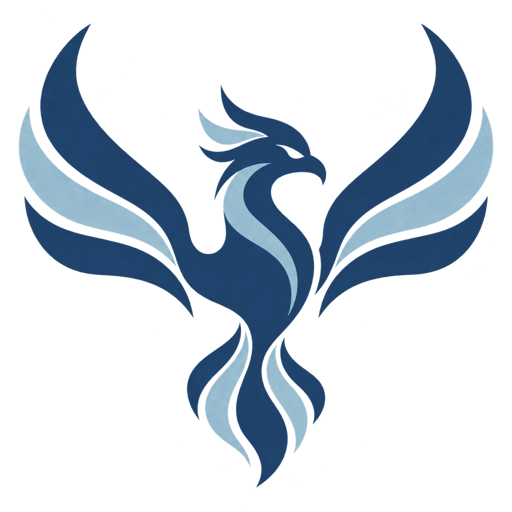
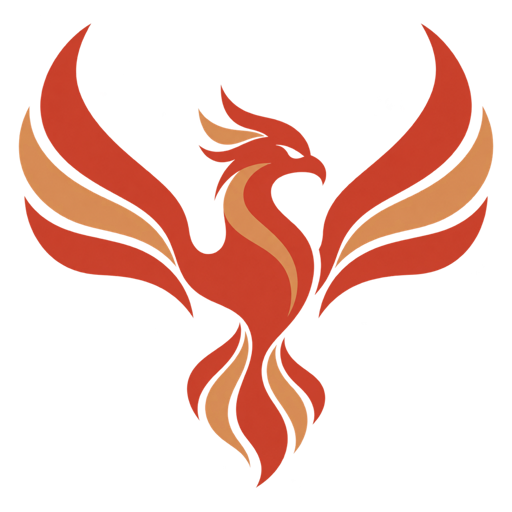
Theme: polish after graphite switch
- Phoenix logo keeps its red brand colour everywhere via --brand-mark
  (logo-only token); dark-mode raster lifts the red to #da614e for 3.6:1
  on the dark sidebar glass.
- Shell backdrop bottom-left stop moves from peach/brick to cool slate.
- --chart-8 sky -> olive so every series pair is >0.08 OKLab apart.
- Contrast test covers the mark token and the raster body colour.

Changed region(s): [[0.0312, 0.0312, 0.9688, 0.9688], [0.4062, 0.1562, 0.4375, 0.1875]]

diff --git a/frontend/src/styles/theme-contrast.test.ts b/frontend/src/styles/theme-contrast.test.ts
@@ -105,14 +105,72 @@ describe.each(['light', 'dark'] as const)('theme contrast (%s)', mode => {
   it('never puts two look-alike series next to each other', () => {
     apply()
     const series = Array.from({ length: 9 }, (_, index) => token(`--chart-${index + 1}`))
-    for (let index = 1; index < series.length; index += 1) {
-      expect(distance(series[index - 1], series[index]), `--chart-${index} vs --chart-${index + 1}`).toBeGreaterThan(0.08)
-    }
-    // Non-adjacent slots may be closer (sky and steel blue), but never the same.
+    // Every pair, not only neighbours: a nine-series chart shows all of them.
     for (let a = 0; a < series.length; a += 1) {
       for (let b = a + 1; b < series.length; b += 1) {
-        expect(distance(series[a], series[b]), `--chart-${a + 1} vs --chart-${b + 1}`).toBeGreaterThan(0.06)
+        expect(distance(series[a], series[b]), `--chart-${a + 1} vs --chart-${b + 1}`).toBeGreaterThan(0.08)
       }
     }
   })
+
+  it('keeps the red phoenix mark at 3:1 on the brightest point of its sidebar', async () => {
+    apply()
+    const glass = sidebarGlass()
+    expect(ratio(token('--brand-mark'), glass)).toBeGreaterThanOrEqual(3)
+    expect(ratio(token('--brand-mark'), token('--background'))).toBeGreaterThanOrEqual(3)
+    // The raster itself, not only the token: its body red matches --brand-mark
+    // and clears 3:1 against the same glass.
+    const body = await markBody(mode === 'dark' ? '/images/nova-mark-128-dark.png' : '/images/nova-mark-128.png')
+    expect(distance(body, token('--brand-mark')), `mark body ${body}`).toBeLessThan(0.03)
+    expect(ratio(body, glass), `mark body ${body} on ${glass}`).toBeGreaterThanOrEqual(3)
+  })
+
+  it('keeps the mark red apart from the UI accents', () => {
+    apply()
+    expect(distance(token('--brand-mark'), token('--primary'))).toBeGreaterThan(0.2)
+    expect(distance(token('--brand-mark'), token('--brand'))).toBeGreaterThan(0.2)
+  })
 })
+
+/**
+ * The navigation glass where the logo sits: the sidebar tint composited over
+ * the backdrop's first (top-left) stop, which is its brightest point in dark
+ * and its most saturated in light.
+ */
+function sidebarGlass(): string {
+  const stop = token('--shell-backdrop').match(/#[0-9a-f]{6}/i)![0]
+  const tint = token('--sidebar-navigation-tint')
+  const canvas = document.createElement('canvas')
+  canvas.width = canvas.height = 1
+  const context = canvas.getContext('2d')!
+  context.fillStyle = stop
+  context.fillRect(0, 0, 1, 1)
+  context.fillStyle = tint
+  context.fillRect(0, 0, 1, 1)
+  const [r, g, b] = context.getImageData(0, 0, 1, 1).data
+  return `rgb(${r}, ${g}, ${b})`
+}
+
+/** The most common saturated colour among the mark's opaque pixels. */
+async function markBody(src: string): Promise<string> {
+  const image = new Image()
+  image.src = src
+  await image.decode()
+  const canvas = document.createElement('canvas')
+  canvas.width = image.naturalWidth
+  canvas.height = image.naturalHeight
+  const context = canvas.getContext('2d', { willReadFrequently: true })!
+  context.drawImage(image, 0, 0)
+  const data = context.getImageData(0, 0, canvas.width, canvas.height).data
+  const counts = new Map<string, number>()
+  for (let index = 0; index < data.length; index += 4) {
+    if (data[index + 3] < 250) continue
+    const [r, g, b] = [data[index], data[index + 1], data[index + 2]]
+    if (r - Math.min(g, b) < 80) continue
+    // Quantise to 8 levels per channel so anti-aliasing does not split the vote.
+    const key = [r, g, b].map(v => Math.round(v / 8) * 8).join(',')
+    counts.set(key, (counts.get(key) ?? 0) + 1)
+  }
+  const [key] = [...counts.entries()].sort((a, b) => b[1] - a[1])[0]
+  return `rgb(${key})`
+}

diff --git a/frontend/src/styles/theme.css b/frontend/src/styles/theme.css
@@ -24,6 +24,11 @@
      --brand fill is 5.2:1. */
   --brand: #2f6fb0;
   --brand-foreground: #ffffff;
+  /* The phoenix mark: the only red in the interface (owner decision
+     2026-11-24). Raster colours, not a UI accent; the Logo PNGs are exported
+     from these values and theme-contrast.test.ts checks them. */
+  --brand-mark: #c93f2a;
+  --brand-mark-accent: #d78c55;
   --secondary: oklch(0.968 0.007 247.896);
   --secondary-foreground: var(--foreground);
   --muted: oklch(0.968 0.007 247.896);
@@ -68,8 +73,9 @@
   --surface-border: oklch(0.929 0.013 255.508);
 
   /* Categorical series in drawing order: steel blue first, then hues that
-     never sit next to a look-alike (coral comes fifth, sky eighth, far from
-     blue). Every slot keeps 3:1 against --card; theme-contrast.test.ts
+     never sit next to a look-alike (coral fifth, olive eighth). Every pair
+     differs by at least 0.08 in OKLab, so even a nine-series chart has no
+     near-twins. Every slot keeps 3:1 against --card; theme-contrast.test.ts
      enforces it. */
   --chart-1: #2f6fb0;
   --chart-2: #12897d;
@@ -78,7 +84,7 @@
   --chart-5: #d4503f;
   --chart-6: #c03f84;
   --chart-7: #4f8a2b;
-  --chart-8: #1a86b4;
+  --chart-8: #6e6a1c;
   --chart-9: #a0612f;
 
   /* Tool kinds under an answer: icon tiles, chip accents and detail rules.
@@ -142,7 +148,7 @@
   --shell-backdrop:
     radial-gradient(90% 70% at 0% 0%, #8fb4c4 0%, rgb(143 180 196 / 0%) 70%),
     radial-gradient(80% 70% at 100% 100%, #ecd3a0 0%, rgb(236 211 160 / 0%) 70%),
-    radial-gradient(60% 60% at 0% 100%, #f0c4ae 0%, rgb(240 196 174 / 0%) 70%),
+    radial-gradient(60% 60% at 0% 100%, #c8cfe0 0%, rgb(200 207 224 / 0%) 70%),
     linear-gradient(160deg, #cfdbe4 0%, #e9edf1 100%);
   /* The light pane stays fully opaque: --primary and the -strong status tokens
      are measured as text on --background with no margin for a tint (B4). */
@@ -185,7 +191,7 @@
   --shell-backdrop:
     radial-gradient(90% 70% at 0% 0%, #2c5360 0%, rgb(44 83 96 / 0%) 70%),
     radial-gradient(80% 70% at 100% 100%, #6a5330 0%, rgb(106 83 48 / 0%) 70%),
-    radial-gradient(60% 60% at 0% 100%, #5c3a2b 0%, rgb(92 58 43 / 0%) 70%),
+    radial-gradient(60% 60% at 0% 100%, #2a3346 0%, rgb(42 51 70 / 0%) 70%),
     linear-gradient(160deg, #1a2733 0%, #0d1217 100%);
   /* Both tints are --background (#0b0f14) so chrome and pane differ only in
      how much backdrop they let through. */
@@ -231,6 +237,9 @@
   --primary-foreground: #0b0f14;
   --brand: #6aa5e0;
   --brand-foreground: #0b0f14;
+  /* Lifted so the mark keeps 3:1 on the dark navigation glass. */
+  --brand-mark: #da614e;
+  --brand-mark-accent: #e1a980;
   --secondary: #171d26;
   --secondary-foreground: #f7f8fa;
   --muted: #171d26;
@@ -272,7 +281,7 @@
   --chart-5: #f36b5b;
   --chart-6: #e36a9a;
   --chart-7: #7cc35a;
-  --chart-8: #38bdf8;
+  --chart-8: #d2c49a;
   --chart-9: #d0915a;
 
   --tool-mcp: #b4a0fb;

diff --git a/frontend/src/assets/logo.tsx b/frontend/src/assets/logo.tsx
@@ -1,22 +1,43 @@
 import { type ComponentProps } from "react";
 import { cn } from "@/lib/utils";
 
+const LIGHT =
+  "/images/nova-mark-64.png 64w, /images/nova-mark-128.png 128w, /images/nova-mark-256.png 256w, /images/nova-mark-512.png 512w, /images/nova-phoenix-master.png 1024w";
+const DARK =
+  "/images/nova-mark-64-dark.png 64w, /images/nova-mark-128-dark.png 128w, /images/nova-mark-256-dark.png 256w, /images/nova-mark-512-dark.png 512w, /images/nova-phoenix-master-dark.png 1024w";
+
+/**
+ * The red Nova phoenix (--brand-mark). Dark mode swaps in the same composition
+ * with the red lifted to --brand-mark's dark value, so the mark keeps 3:1
+ * against the dark navigation glass. The swap follows the `.dark` class.
+ */
 export function Logo({
   className,
   alt = "",
   ...props
 }: Omit<ComponentProps<"img">, "src" | "srcSet">) {
+  const shared = {
+    sizes: "24px",
+    width: 128,
+    height: 128,
+    alt,
+    "aria-hidden": alt === "" ? true : undefined,
+    ...props,
+  };
   return (
-    <img
-      src="/images/nova-mark-128.png"
-      srcSet="/images/nova-mark-64.png 64w, /images/nova-mark-128.png 128w, /images/nova-mark-256.png 256w, /images/nova-mark-512.png 512w, /images/nova-phoenix-master.png 1024w"
-      sizes="24px"
-      width={128}
-      height={128}
-      alt={alt}
-      aria-hidden={alt === "" ? true : undefined}
-      className={cn("size-6 object-contain", className)}
-      {...props}
-    />
+    <>
+      <img
+        src="/images/nova-mark-128.png"
+        srcSet={LIGHT}
+        className={cn("size-6 object-contain", className, "dark:hidden")}
+        {...shared}
+      />
+      <img
+        src="/images/nova-mark-128-dark.png"
+        srcSet={DARK}
+        className={cn("size-6 object-contain", className, "hidden dark:block")}
+        {...shared}
+      />
+    </>
   );
 }

diff --git a/frontend/src/styles/index.css b/frontend/src/styles/index.css
@@ -555,7 +555,7 @@ input:-webkit-autofill:active {
 
 /* Studio greeting ink: the sky of the client's hour, drawn from the chart
    palette. Sunrise warms from amber into coral and rose, daylight is a clear
-   steel-blue sky into teal, dusk goes rose to violet to blue. Light theme deepens each stop so
+   steel-blue sky into teal and green, dusk goes rose to violet to blue. Light theme deepens each stop so
    the text keeps 3:1 against the page. */
 .nova-greeting-ink {
   --g1: var(--chart-3);
@@ -581,8 +581,8 @@ input:-webkit-autofill:active {
 
 .nova-greeting-ink[data-daypart="afternoon"] {
   --g1: var(--chart-1);
-  --g2: var(--chart-8);
-  --g3: var(--chart-2);
+  --g2: var(--chart-2);
+  --g3: var(--chart-7);
 }
 
 .nova-greeting-ink[data-daypart="evening"] {

diff --git a/frontend/src/features/workspaces/chart-visualization.tsx b/frontend/src/features/workspaces/chart-visualization.tsx
@@ -46,7 +46,7 @@ function readSeriesPalette() {
     readToken("--chart-5", "#d4503f"),
     readToken("--chart-6", "#c03f84"),
     readToken("--chart-7", "#4f8a2b"),
-    readToken("--chart-8", "#1a86b4"),
+    readToken("--chart-8", "#6e6a1c"),
     readToken("--chart-9", "#a0612f"),
   ];
 }

diff --git a/frontend/public/images/BRAND.md b/frontend/public/images/BRAND.md
@@ -1,16 +1,16 @@
 # Nova phoenix assets
 
-Nova uses one steel-blue phoenix across Console, Studio, sign-in,
-assistant, browser icons, and the root README. The application palette and
-typography remain defined by [DESIGN.md](../../../DESIGN.md).
+Nova uses one brick-red and copper phoenix across Console, Studio, sign-in,
+assistant, browser icons, and the root README. The mark is the only red in the
+interface: its colour is the `--brand-mark` token (`--brand-mark-accent` for the
+copper), separate from the graphite `--primary` and the steel-blue `--brand`
+that the rest of the UI uses (owner decision, 2026-11-24). The application
+palette and typography remain defined by [DESIGN.md](../../../DESIGN.md).
 
 ## Source and exports
 
 The master was generated with the built-in imagegen tool and normalized to a
-1024 × 1024 transparent PNG. On 2026-11-24 the owner replaced the orange palette
-with graphite and steel blue; the master was recoloured once by mapping each
-pixel's luminance onto a deep-steel → `--brand` (#2f6fb0) → light-steel ramp,
-keeping its composition and alpha. That ramp is the only sanctioned recolour. All exports use that same composition and alpha;
+1024 × 1024 transparent PNG. All exports use that same composition and alpha;
 none are independently generated or redrawn.
 
 | File | Size | Use |
@@ -20,22 +20,30 @@ none are independently generated or redrawn.
 | `favicon-{16,32,48}.png` | Corresponding square size | Browser tabs |
 | `favicon.ico` | 16, 32, 48 | Browser fallback, PNG entries |
 | `apple-touch-icon.png` | 180 × 180 | Touch icon |
+| `nova-phoenix-master-dark.png`, `nova-mark-{64,128,256,512}-dark.png` | Same sizes | Dark theme, swapped in by `Logo` on `.dark` |
+
+**Dark variant.** On the dark navigation glass the body red (`#c93f2a`) reaches
+only 2.6:1. The dark master is the same file with the HLS lightness of every
+saturated pixel raised by 0.105, which lifts the body to `#da614e` (the dark
+`--brand-mark`, 3.6:1 on the brightest point of the dark sidebar) and the copper
+to `#e1a980`. Composition and alpha are unchanged. `theme-contrast.test.ts`
+measures both rasters against their sidebars.
 
 Use the shared `Logo` component in application code. Set `sizes` to match its
 display size, preserve the square aspect ratio, and keep the existing clear
 margin. Use empty alternative text beside an existing brand label; use a
 descriptive alternative when the emblem stands alone. Do not recolor, stretch,
-crop, add glow, or create a separate phoenix for another screen. Both themes
-use the same image. Touch platforms may supply their own background for alpha.
+crop, add glow, or create a separate phoenix for another screen. The dark
+variant above is the only alternate rendering. Touch platforms may supply their
+own background for alpha.
 
 To reproduce exports on macOS, use `sips -z SIZE SIZE
 nova-phoenix-master.png --out OUTPUT.png`. Regenerate ICO entries from the
-16/32/48 PNGs. Retain the master as the source for future exports.
+16/32/48 PNGs. Retain the master as the source for future exports; regenerate
+the dark master from it with the lightness lift above, then export its sizes
+the same way.
 
 ## Generation prompt
-
-Historical: the original master was generated in brick red and copper with this
-prompt, then recoloured to steel blue as described above.
 
 ```text
 Use case: logo-brand. Asset type: single master brand emblem for Nova analytics software, used unchanged from 16px favicon to large login emblem. Generate one luxurious phoenix mark, no text. Truly transparent background. Square canvas, centered emblem with 10% clear padding. Distinct phoenix bird head in slight profile, raised sweeping wings balanced on both sides, compact strong body, short elegant flame tail. Sculptural clean broad shapes, only three broad feather shapes per wing, generous negative spaces, bold readable silhouette at tiny sizes. Restrained premium flat graphic design with brick red #D04738 dominant and warm copper #D99765 secondary accent. Crisp edges, no thin lines. Subtle copper accent planes, not realistic metal. No surrounding frame, no badge, no circle, no shadows, no glow, no particles, no gradients, no mockup, no watermark, no typography. Original dignified enterprise brand, refined proportions.

diff --git a/DESIGN.md b/DESIGN.md
@@ -40,6 +40,7 @@ mendefinisikan warna.
 | `--primary`, `--primary-foreground` | Aksi utama, graphite netral | Tombol primer, fill aksi, tooltip, gelembung pesan |
 | `--brand`, `--brand-foreground` | Aksen interaktif biru-baja, satu keluarga dengan backdrop `#8fb4c4` | Tautan, focus ring (`--ring`), tab/toggle aktif, checkbox/switch tercentang, seleksi, rute peta, `--viz-highlight` |
 | `--editor-selection` | Seleksi teks di editor SQL | Monaco `editor.selectionBackground` |
+| `--brand-mark`, `--brand-mark-accent` | Merah bata dan tembaga phoenix; satu-satunya merah di antarmuka | Hanya logo (`Logo`, favicon). Bukan warna UI, bukan `--primary` |
 
 ### 2.2 Warna status
 
@@ -103,7 +104,7 @@ memakai `backdrop-filter`; material bukan tingkat `--surface-4`.
 
 | Token | Arti |
 |---|---|
-| `--shell-backdrop` | Lukisan latar shell: teal-slate di kiri atas, bata dan amber di bawah |
+| `--shell-backdrop` | Lukisan latar shell: teal-slate di kiri atas, slate-biru di kiri bawah, amber di kanan bawah |
 | `--shell-pane-tint` | Tint workspace di atas backdrop; 100% di tema terang, 82% di tema gelap |
 | `--sidebar-navigation-tint` | Tint chrome di atas backdrop atau konten di belakang drawer |
 | `--sidebar-navigation-tint-opacity` | Alpha tint chrome; 45% terang, 46% gelap |
@@ -119,7 +120,7 @@ memakai `backdrop-filter`; material bukan tingkat `--surface-4`.
 
 **Backdrop harus punya variasi hue.** Kaca hanya terbaca kalau ada sesuatu di
 belakangnya. Gradien abu-abu netral di bawah tint terlihat sama dengan warna
-solid, jadi backdrop memakai teal-slate dan bata/amber dari palet Nova sendiri.
+solid, jadi backdrop memakai teal-slate, slate-biru dan amber dari palet Nova sendiri.
 Blur tidak menggantikan variasi itu.
 
 **Plate dan hairline transparan, bukan hex opak.** Hover, selected, dan edge
@@ -211,9 +212,9 @@ warna UI, dan `--success` diambil dari `--chart-2` supaya bahasa status dan
 bahasa grafik tidak bercabang.
 
 - `--chart-1..9` adalah palet kategori dalam urutan gambar: biru-baja,
-  teal, amber, violet, coral, magenta, hijau, langit, cokelat. Konsumen memakai
+  teal, amber, violet, coral, magenta, hijau, zaitun, cokelat. Konsumen memakai
   urutan 1..9 apa adanya; jangan mengurutkan ulang di komponen. Dua slot
-  bersebelahan tidak boleh mirip, dan setiap slot lolos 3:1 terhadap `--card`
+  mana pun tidak boleh mirip (ΔE OKLab > 0,08 untuk setiap pasangan), dan setiap slot lolos 3:1 terhadap `--card`
   di kedua tema (`src/styles/theme-contrast.test.ts`).
 - `--chart-1` sama dengan `--brand`; "aksen" di Dataviz (format kondisional,
   rute) memakai `--chart-1`/`--brand`, bukan slot lain.
@@ -497,6 +498,10 @@ di gelap" tidak berlaku lagi. Aturannya sekarang:
   text-brand-foreground`. Jangan memakai `--primary` untuk keadaan, karena
   graphite tidak terbaca sebagai "aktif".
 - Destructive tetap merah dan sekarang jelas berbeda dari aksi utama.
+- Logo phoenix tetap merah bata (keputusan pemilik, 2026-11-24) lewat
+  `--brand-mark`. Di tema gelap merahnya diangkat (`#da614e`) agar 3:1 di atas
+  kaca navigasi; `Logo` menukar ke raster `-dark` pada `.dark`. Merah ini tidak
+  dipakai untuk elemen UI lain.
 - `src/styles/theme-contrast.test.ts` mengukur pasangan teks (4.5:1), focus ring
   dan seri chart (3:1) dari stylesheet asli di kedua tema.
 
